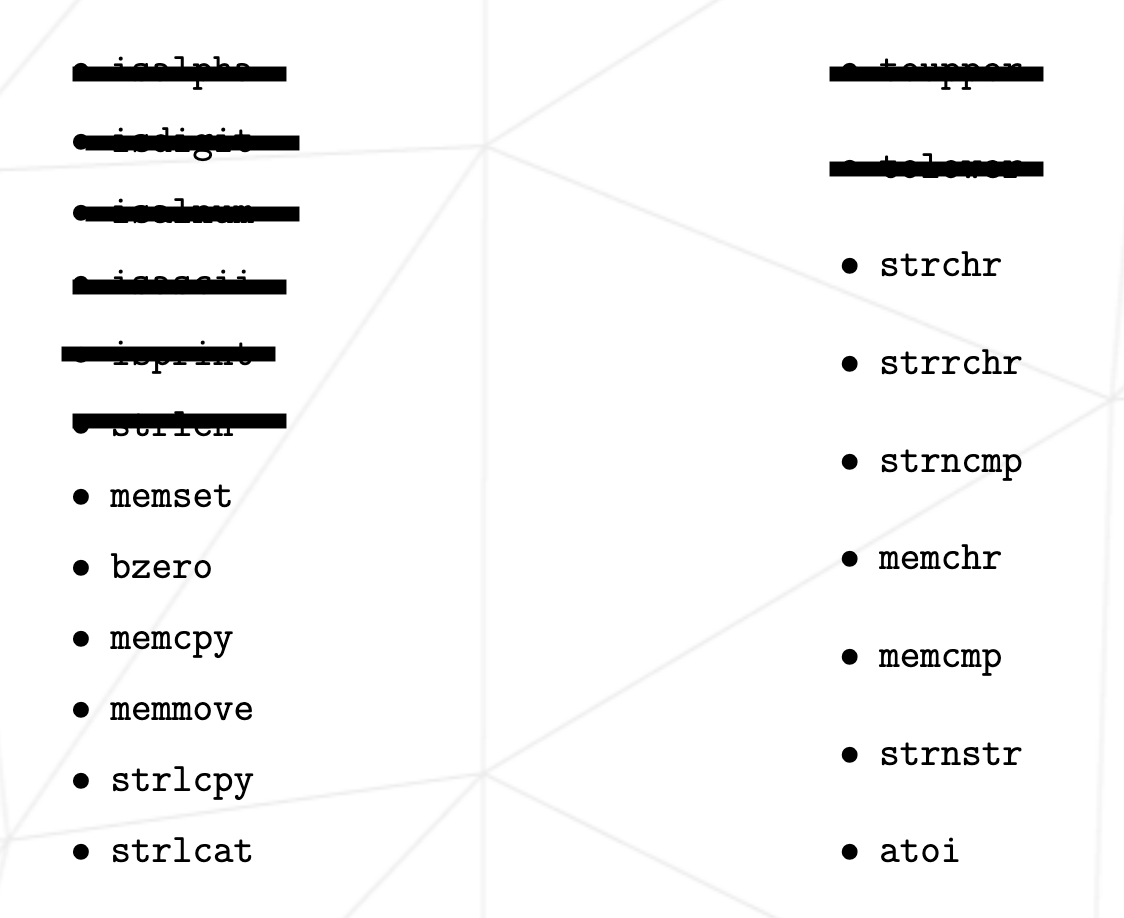
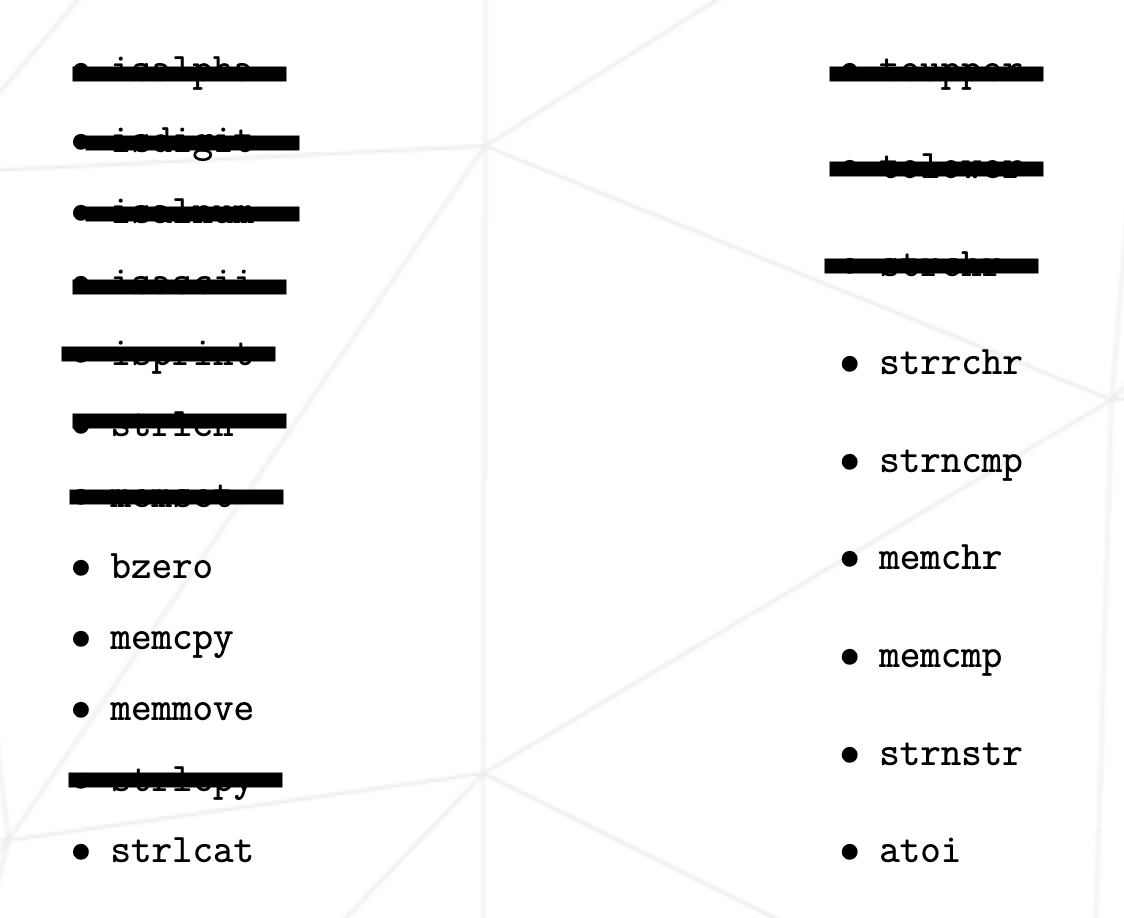
Second day

Changed region(s): [[0.0623, 0.8235, 0.2491, 0.8845], [0.7162, 0.2745, 0.9342, 0.305], [0.0623, 0.5185, 0.2491, 0.549]]

diff --git a/ft_strlcpy.c b/ft_strlcpy.c
@@ -1,0 +1,25 @@
+/* ************************************************************************** */
+/*                                                                            */
+/*                                                        :::      ::::::::   */
+/*   ft_strlcpy.c                                       :+:      :+:    :+:   */
+/*                                                    +:+ +:+         +:+     */
+/*   By: ekutlay <marvin@42.fr>                     +#+  +:+       +#+        */
+/*                                                +#+#+#+#+#+   +#+           */
+/*   Created: 2022/01/04 16:57:01 by ekutlay           #+#    #+#             */
+/*   Updated: 2022/01/04 17:01:24 by ekutlay          ###   ########.fr       */
+/*                                                                            */
+/* ************************************************************************** */
+
+int	ft_strlcpy(char *dst, const char *src)
+{
+	int	i;
+
+	i = 0;
+	while (src[i] != '\0')
+	{
+		dst[i] = src[i];
+		i++;
+	}
+	dst[i] = '\0';
+	return (dst);
+}

diff --git a/ft_strchr.c b/ft_strchr.c
@@ -1,0 +1,24 @@
+/* ************************************************************************** */
+/*                                                                            */
+/*                                                        :::      ::::::::   */
+/*   ft_strchr.c                                        :+:      :+:    :+:   */
+/*                                                    +:+ +:+         +:+     */
+/*   By: ekutlay <marvin@42.fr>                     +#+  +:+       +#+        */
+/*                                                +#+#+#+#+#+   +#+           */
+/*   Created: 2022/01/04 17:09:55 by ekutlay           #+#    #+#             */
+/*   Updated: 2022/01/04 17:41:32 by ekutlay          ###   ########.fr       */
+/*                                                                            */
+/* ************************************************************************** */
+
+char	*ft_strchr(const char *s, int c)
+{
+	while (*s != '\0' && c != *s)
+	{
+		s++;
+	}
+	if (c == *s)
+	{
+		return ((char *)s);
+	}
+	return (0);
+}

diff --git a/ft_memset.c b/ft_memset.c
@@ -1,0 +1,24 @@
+/* ************************************************************************** */
+/*                                                                            */
+/*                                                        :::      ::::::::   */
+/*   ft_memset.c                                        :+:      :+:    :+:   */
+/*                                                    +:+ +:+         +:+     */
+/*   By: ekutlay <marvin@42.fr>                     +#+  +:+       +#+        */
+/*                                                +#+#+#+#+#+   +#+           */
+/*   Created: 2022/01/04 17:47:12 by ekutlay           #+#    #+#             */
+/*   Updated: 2022/01/04 17:51:53 by ekutlay          ###   ########.fr       */
+/*                                                                            */
+/* ************************************************************************** */
+
+void	*ft_memset(void *s, int c, size_t n)
+{
+	size_t	i;
+
+	i = 0;
+	while (i < n)
+	{
+		((unsigned char *)b)[i] = c;
+		i++;
+	}
+	return (b);
+}
